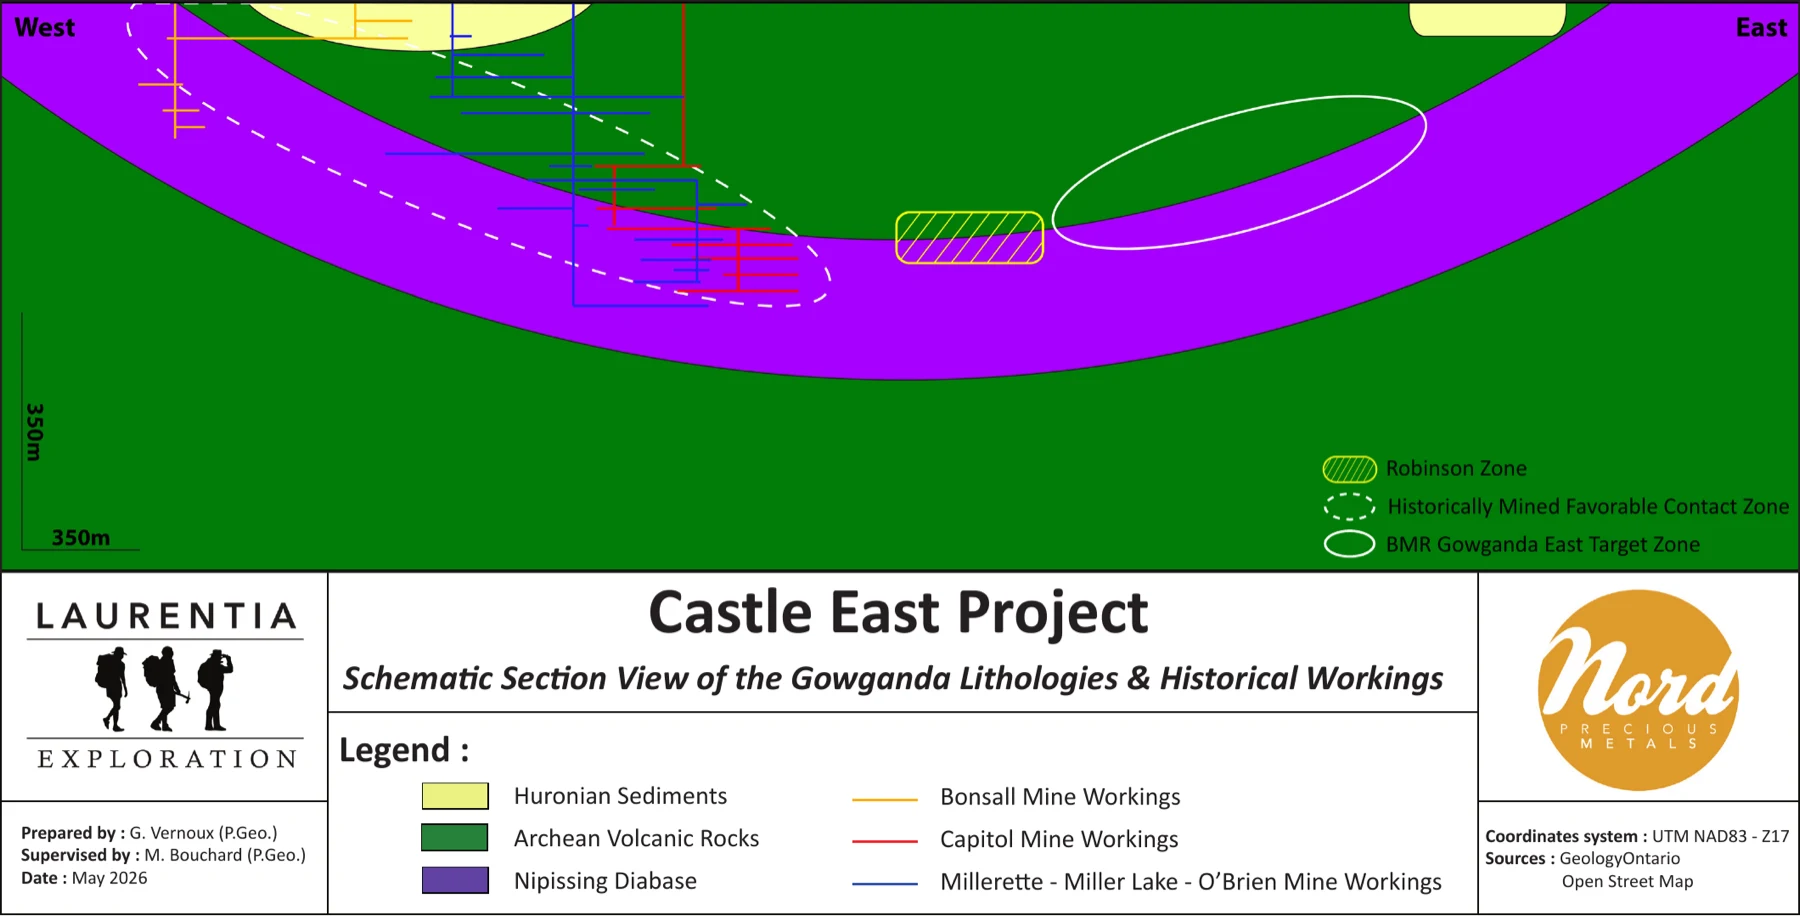
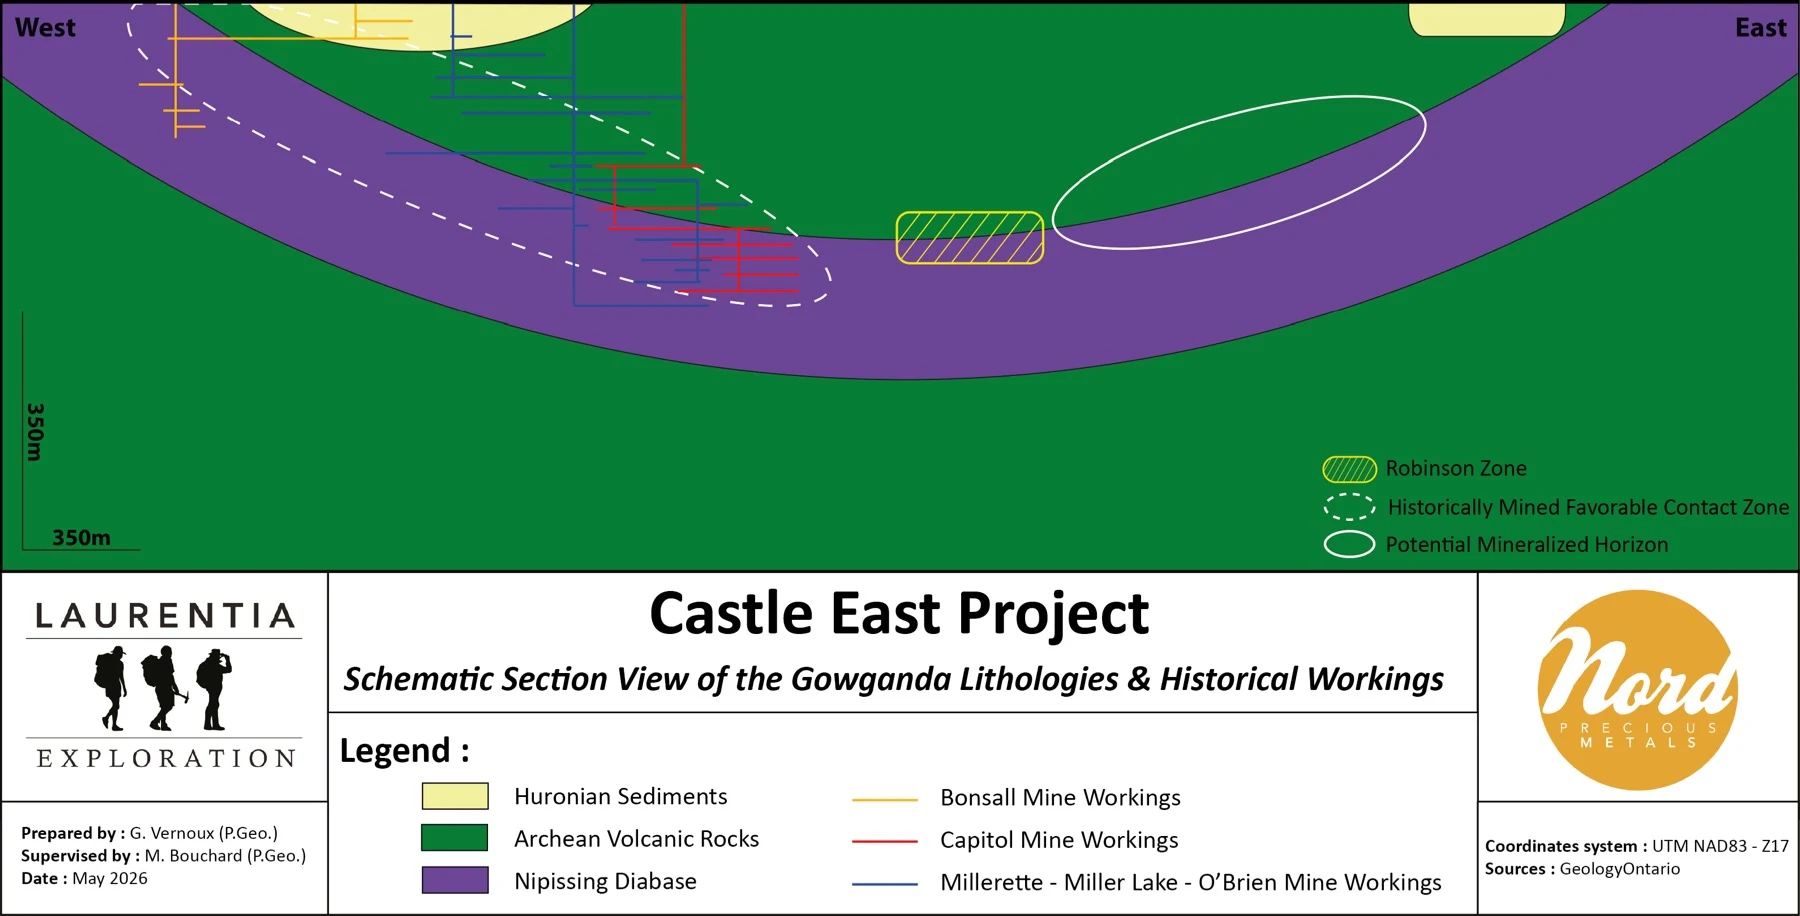
final updates to castle east

diff --git a/src/pages/projects/castle-east/index.js b/src/pages/projects/castle-east/index.js
@@ -173,7 +173,7 @@ export default function CastleEast() {
           <div>
             <p className='mb-2 text-6xl'>
               <mark>
-                <CountUp end={60000} duration={3} enableScrollSpy scrollSpyOnce />
+                <CountUp end={68000} duration={3} enableScrollSpy scrollSpyOnce />
               </mark>
             </p>
 
@@ -183,7 +183,7 @@ export default function CastleEast() {
           <div>
             <p className='mb-2 text-6xl'>
               <mark>
-                <CountUp end={8} duration={3} enableScrollSpy scrollSpyOnce />
+                <CountUp end={29} duration={3} enableScrollSpy scrollSpyOnce />
               </mark>
             </p>
 
@@ -203,7 +203,7 @@ export default function CastleEast() {
           <div>
             <p className='mb-2 text-6xl'>
               <mark>
-                <CountUp end={2} duration={3} enableScrollSpy scrollSpyOnce />
+                <CountUp end={8582} duration={3} enableScrollSpy scrollSpyOnce />
               </mark>
             </p>
 
